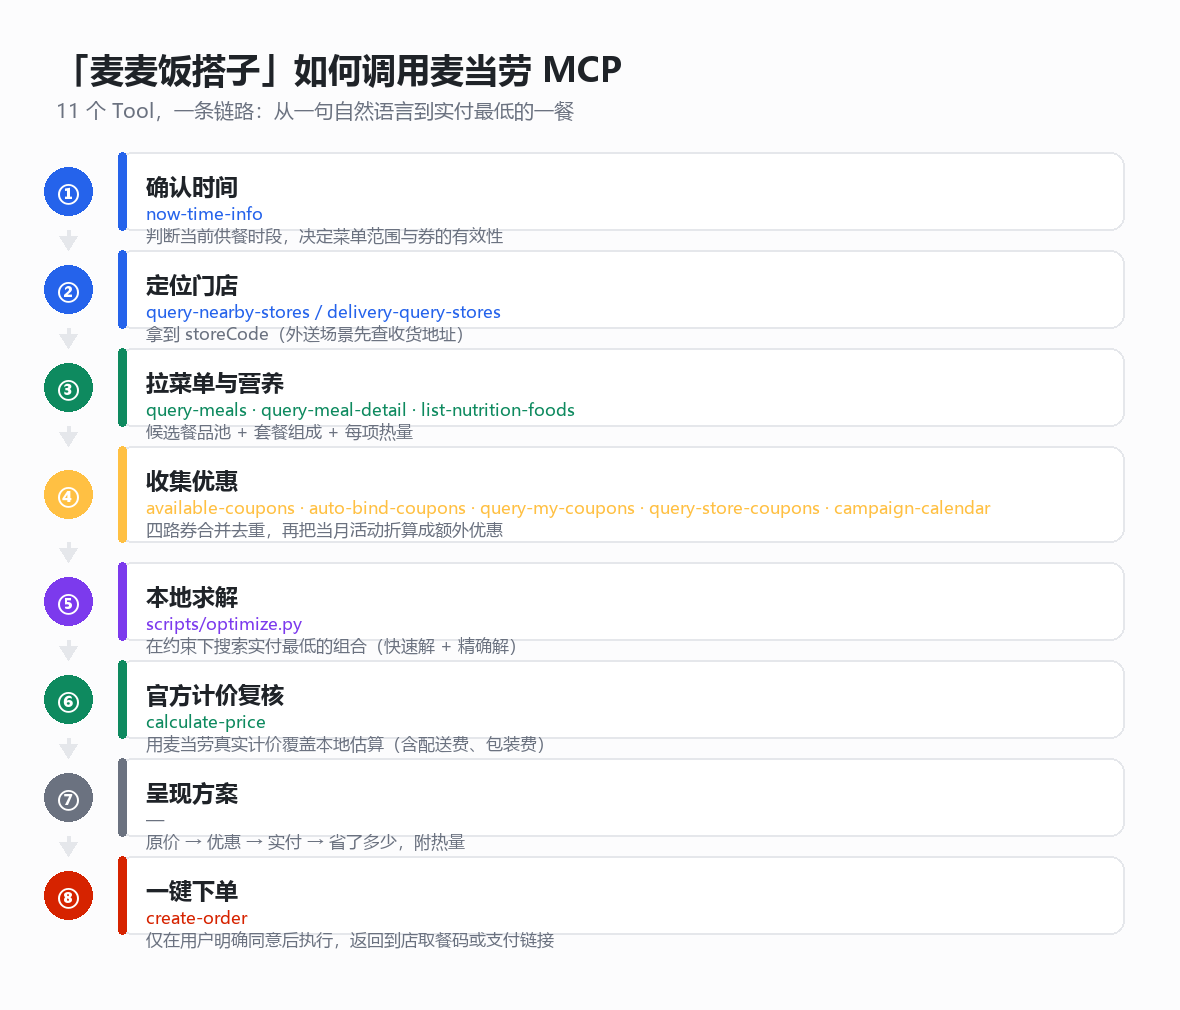
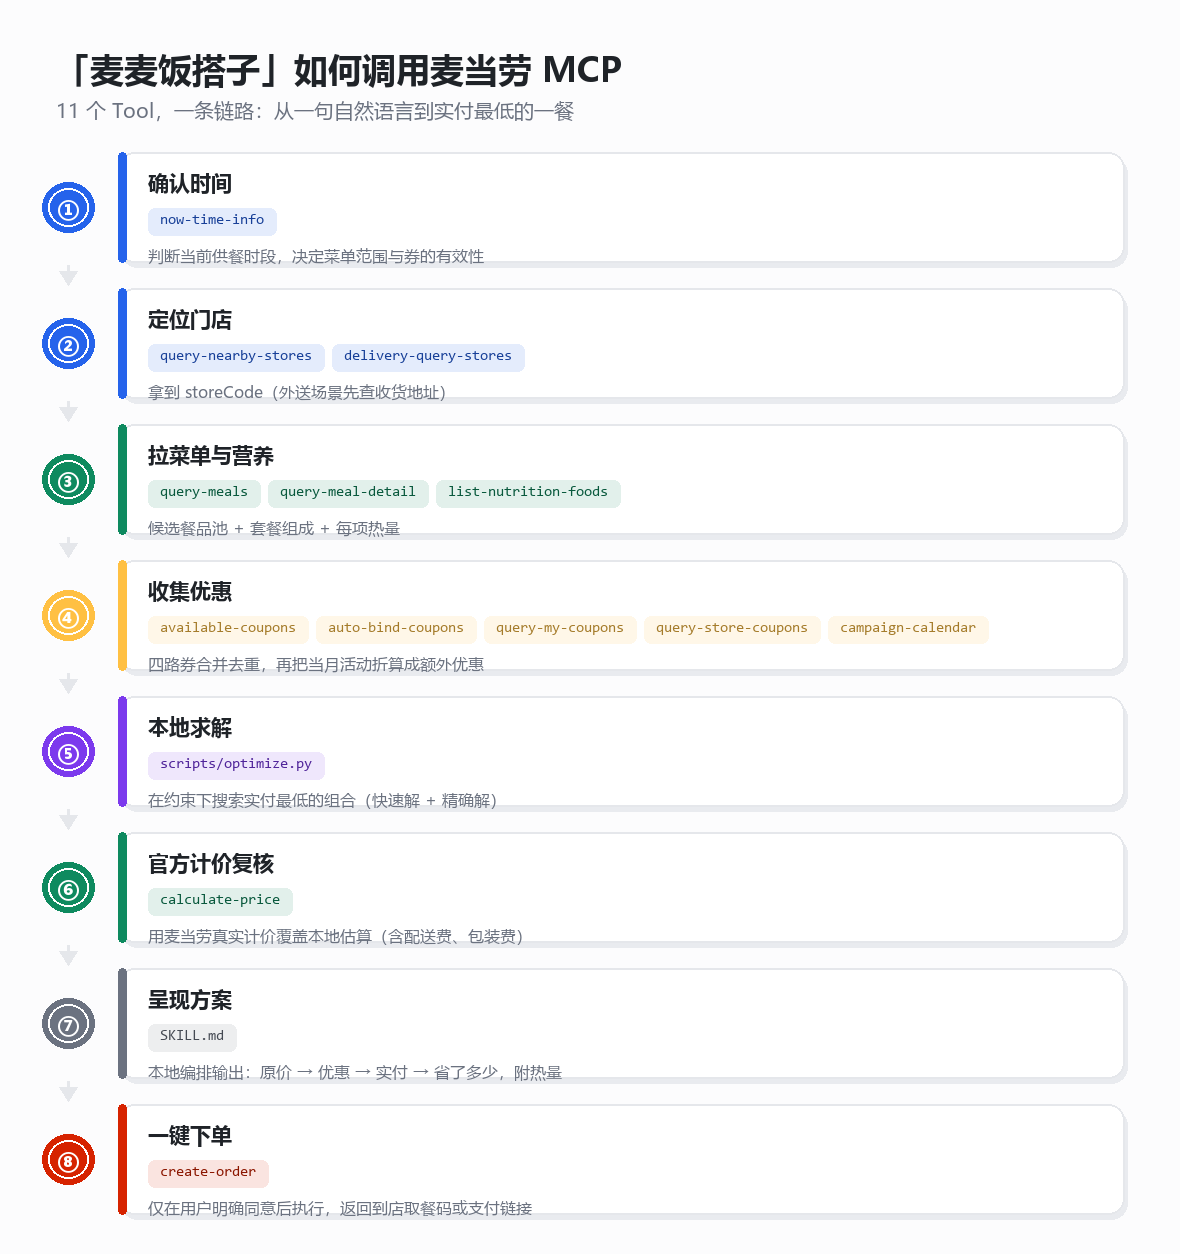
fix: 重绘 architecture.png —— 工具名改为胶囊标签，修复文字溢出与占位符
- 每张卡片高度按内容自适应，说明文字不再溢出卡片边框
- 工具名从一行彩色长文本改为独立的浅底胶囊（mono 字体，自动换行）
- 第 7 步原来孤零零的占位破折号改为 SKILL.md，说明补充'本地编排输出'
- 修正 tint() 混色公式反相导致胶囊底色变成饱和色的 bug
- 卡片增加投影与序号圆内环，整体留白更均衡

diff --git a/scripts/make_images.py b/scripts/make_images.py
@@ -153,42 +153,87 @@ def make_banner(out: str):
 # --------------------------------------------------------------------------
 # 图 2：architecture.png  调用流程
 # --------------------------------------------------------------------------
+def tint(c, f: float = 0.88):
+    """把颜色向白色混合，f 是白色的占比。"""
+    return tuple(int(v + (255 - v) * f) for v in c)
+
+
+def chip(d: ImageDraw.ImageDraw, x, y, s: str, col, f) -> float:
+    """画一个浅色底、深色字的工具名胶囊，返回右边界 x。"""
+    pad_x, h = 12, 27
+    w = tw(d, s, f) + pad_x * 2
+    rrect(d, (x, y, x + w, y + h), 7, fill=tint(col))
+    ink = tuple(int(v * 0.65) for v in col)  # 文字加深，保证浅底上可读
+    text(d, (x + pad_x, y + h / 2 - 1), s, f, ink, anchor="lm")
+    return x + w
+
+
 def make_architecture(out: str):
-    W, H = 1180, 1010
+    W = 1180
+    steps = [
+        ("①", "确认时间", ["now-time-info"], "判断当前供餐时段，决定菜单范围与券的有效性", BLUE),
+        ("②", "定位门店", ["query-nearby-stores", "delivery-query-stores"], "拿到 storeCode（外送场景先查收货地址）", BLUE),
+        ("③", "拉菜单与营养", ["query-meals", "query-meal-detail", "list-nutrition-foods"], "候选餐品池 + 套餐组成 + 每项热量", GREEN),
+        ("④", "收集优惠", ["available-coupons", "auto-bind-coupons", "query-my-coupons", "query-store-coupons", "campaign-calendar"], "四路券合并去重，再把当月活动折算成额外优惠", YELLOW),
+        ("⑤", "本地求解", ["scripts/optimize.py"], "在约束下搜索实付最低的组合（快速解 + 精确解）", PURPLE),
+        ("⑥", "官方计价复核", ["calculate-price"], "用麦当劳真实计价覆盖本地估算（含配送费、包装费）", GREEN),
+        ("⑦", "呈现方案", ["SKILL.md"], "本地编排输出：原价 → 优惠 → 实付 → 省了多少，附热量", GRAY),
+        ("⑧", "一键下单", ["create-order"], "仅在用户明确同意后执行，返回到店取餐码或支付链接", RED),
+    ]
+
+    # 先按内容算出每张卡的高度（工具胶囊可能换行）
+    f_title, f_chip, f_desc = font(21, "bold"), font(15, "mono"), font(16)
+    chip_h, chip_gap, row_h = 27, 8, 36
+    box_x0, box_x1 = 118, W - 56
+    measure = ImageDraw.Draw(Image.new("RGB", (8, 8)))
+
+    def chip_rows(tools):
+        rows, cx = 1, box_x0 + 30
+        for t in tools:
+            w = tw(measure, t, f_chip) + 24
+            if cx + w > box_x1 - 30:
+                rows += 1
+                cx = box_x0 + 30
+            cx += w + chip_gap
+        return rows
+
+    heights = [int(18 + 30 + 10 + chip_rows(tools) * row_h + 16) for _, _, tools, _, _ in steps]
+
+    H = 152 + sum(heights) + (len(steps) - 1) * 26 + 40
     img = Image.new("RGB", (W, H), (252, 252, 253))
     d = ImageDraw.Draw(img)
 
     text(d, (56, 46), "「麦麦饭搭子」如何调用麦当劳 MCP", font(34, "bold"), DARK)
     text(d, (56, 96), "11 个 Tool，一条链路：从一句自然语言到实付最低的一餐", font(20), GRAY)
 
-    steps = [
-        ("①", "确认时间", "now-time-info", "判断当前供餐时段，决定菜单范围与券的有效性", BLUE),
-        ("②", "定位门店", "query-nearby-stores / delivery-query-stores", "拿到 storeCode（外送场景先查收货地址）", BLUE),
-        ("③", "拉菜单与营养", "query-meals · query-meal-detail · list-nutrition-foods", "候选餐品池 + 套餐组成 + 每项热量", GREEN),
-        ("④", "收集优惠", "available-coupons · auto-bind-coupons · query-my-coupons · query-store-coupons · campaign-calendar", "四路券合并去重，再把当月活动折算成额外优惠", YELLOW),
-        ("⑤", "本地求解", "scripts/optimize.py", "在约束下搜索实付最低的组合（快速解 + 精确解）", PURPLE),
-        ("⑥", "官方计价复核", "calculate-price", "用麦当劳真实计价覆盖本地估算（含配送费、包装费）", GREEN),
-        ("⑦", "呈现方案", "—", "原价 → 优惠 → 实付 → 省了多少，附热量", GRAY),
-        ("⑧", "一键下单", "create-order", "仅在用户明确同意后执行，返回到店取餐码或支付链接", RED),
-    ]
-
     y = 152
-    box_x0, box_x1 = 118, W - 56
-    for num, title, tools, desc, col in steps:
-        h = 78 if len(tools) < 62 else 96
-        rrect(d, (box_x0, y, box_x1, y + h), 14, fill=WHITE, outline=GRAY_LIGHT, width=2)
+    for (num, title, tools, desc, col), h in zip(steps, heights):
+        # 卡片阴影 + 卡体 + 左侧色条
+        rrect(d, (box_x0 + 3, y + 5, box_x1 + 3, y + h + 5), 16, fill=(233, 235, 239))
+        rrect(d, (box_x0, y, box_x1, y + h), 16, fill=WHITE, outline=GRAY_LIGHT, width=2)
         rrect(d, (box_x0, y, box_x0 + 8, y + h), 4, fill=col)
 
-        d.ellipse((44, y + h / 2 - 24, 92, y + h / 2 + 24), fill=col)
+        # 序号圆
+        d.ellipse((42, y + h / 2 - 25, 94, y + h / 2 + 25), fill=col)
+        d.ellipse((48, y + h / 2 - 19, 88, y + h / 2 + 19), outline=WHITE, width=2)
         text(d, (68, y + h / 2), num, font(22, "bold"), WHITE, anchor="mm")
 
-        text(d, (box_x0 + 28, y + 18), title, font(23, "bold"), DARK)
-        text(d, (box_x0 + 28, y + 50), tools, font(17, "regular"), col)
-        text(d, (box_x0 + 28, y + 72), desc, font(17), GRAY)
+        # 标题 + 工具胶囊（自动换行）+ 说明
+        text(d, (box_x0 + 30, y + 16), title, f_title, DARK)
+        cy = y + 56
+        cx = box_x0 + 30
+        for t in tools:
+            w = tw(d, t, f_chip) + 24
+            if cx + w > box_x1 - 30:
+                cy += row_h
+                cx = box_x0 + 30
+            chip(d, cx, cy, t, col, f_chip)
+            cx += w + chip_gap
+        text(d, (box_x0 + 30, cy + chip_h + 10), desc, f_desc, GRAY)
 
         if num != "⑧":
-            arrow_down(d, 68, y + h, y + h + 20)
-        y += h + 20
+            arrow_down(d, 68, y + h + 3, y + h + 23, GRAY_LIGHT, 3)
+        y += h + 26
 
     img.save(out)
     return out
